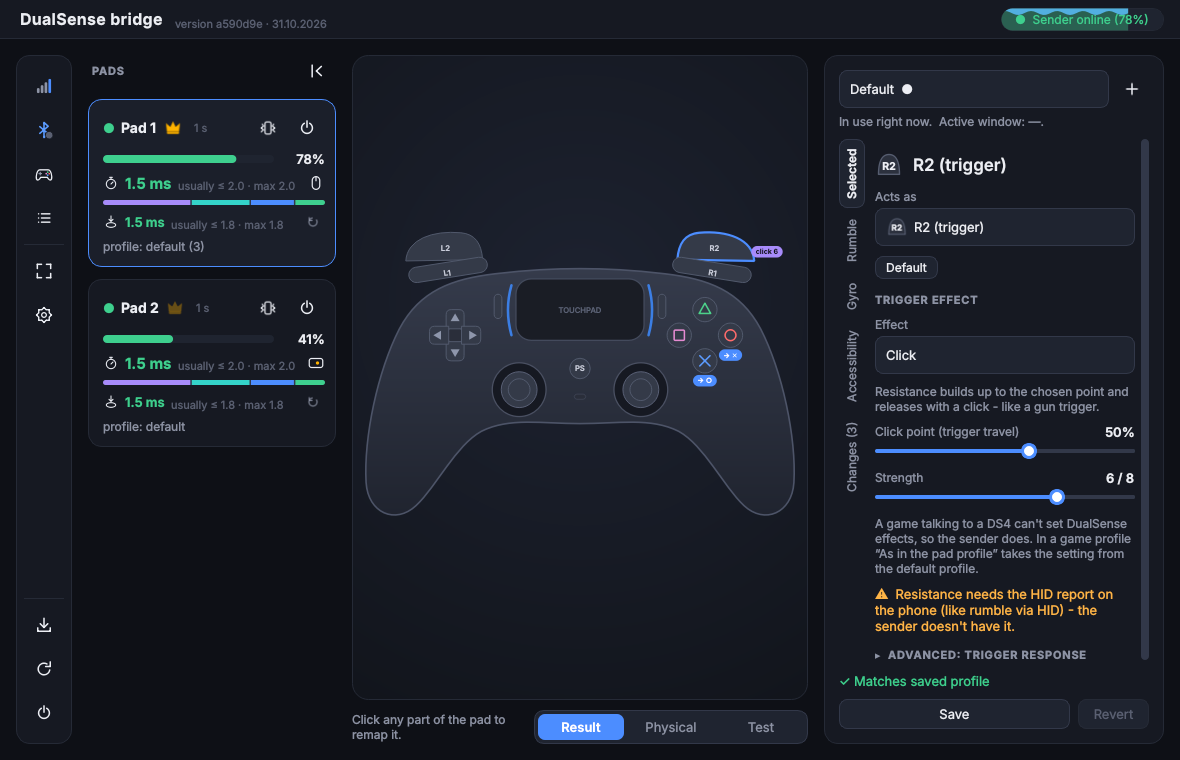
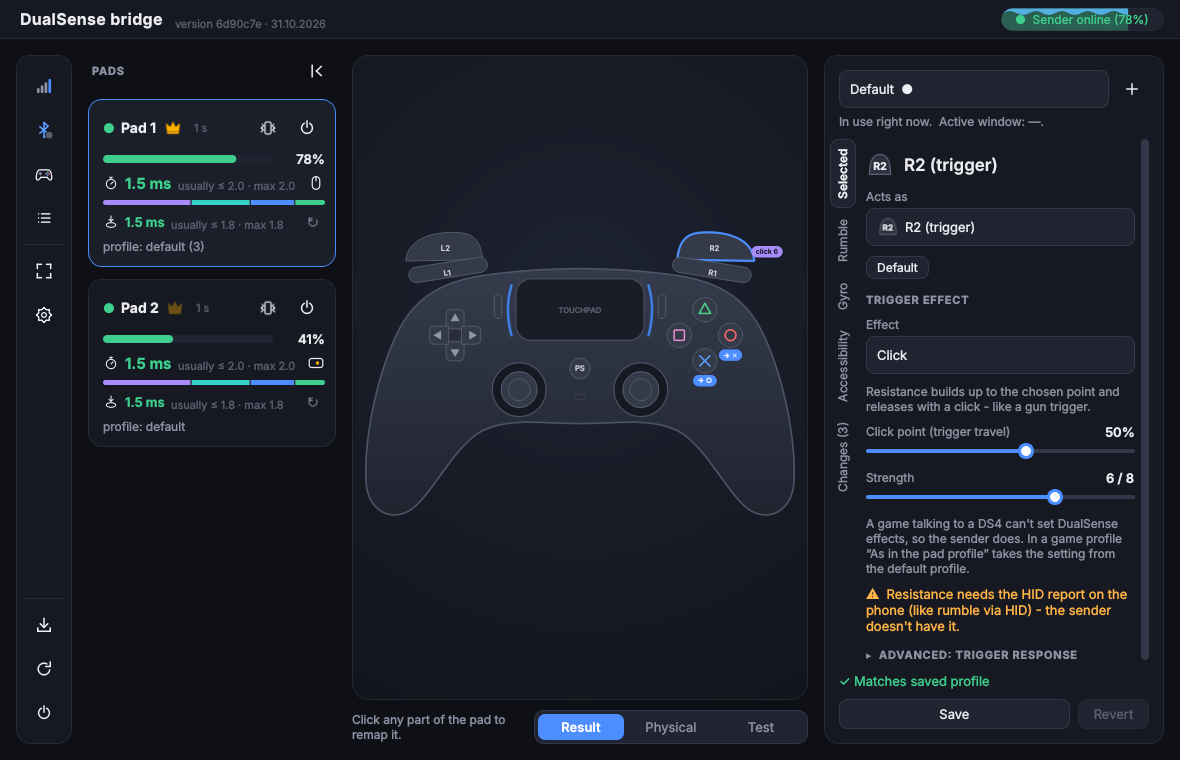
Receiver: editor tabs closer to the left edge
The tabs now sit 5 px from the left edge of the right column instead of 14 px. The profile bar, status and Save row (and the Test
panel) keep their old position through an indent, so only the tabs move.

diff --git a/receiver/rx_qt.py b/receiver/rx_qt.py
@@ -70,6 +70,22 @@ UPDATE_RESTART_MS = 2500   # after a successful update: the message is visible t
 UPDATE_STUCK_S = 150.0     # no progress for this long (git hung despite its limits) -> the button returns, the result still works
 UPDATE_PIP_GRACE_S = 30.0  # added to pip's own time limit before the libraries stage counts as stuck
 NOTE_S = 6.0           # for this many seconds a message (e.g. "Saved") covers the profile status
+TAB_EDGE = 5            # [px] the editor tabs sit this close to the left edge of the right column; the rest is indented by the difference
+TAB_INDENT = 14 - TAB_EDGE
+
+
+def _indent(host: QWidget | QVBoxLayout) -> QVBoxLayout:
+    """A vertical box with the left indent that keeps the column's content where the 14 px margin put it (the tabs go further left).
+
+    `host` is a widget (the box becomes its layout) or a layout (the box is added to it).
+    """
+    box = QVBoxLayout(host) if isinstance(host, QWidget) else QVBoxLayout()
+    box.setContentsMargins(px(TAB_INDENT), 0, 0, 0)
+    if not isinstance(host, QWidget):
+        host.addLayout(box)
+    return box
+
+
 VIEWS = (("out", "Wynik"), ("in", "Fizycznie"), ("test", "Test"))
 EXIT_HOLD_S = 1.0      # the Test view in TV mode: how long ○ of the pad under test must be held to leave the test
 DEFAULT_SIZE = QSize(1160, 720)
@@ -755,7 +771,7 @@ class MainWindow(ScreenPlacement):
         panel.setFixedWidth(px(340))
         self.right_col = panel
         outer = QVBoxLayout(panel)
-        outer.setContentsMargins(px(14), px(14), px(14), px(14))
+        outer.setContentsMargins(px(TAB_EDGE), px(14), px(14), px(14))      # the tabs nearly touch the left edge, the rest is indented
         self.right_stack = QStackedWidget()      # profile editing or the test panel (the Test view)
         outer.addWidget(self.right_stack)
         edit = QWidget()
@@ -765,16 +781,18 @@ class MainWindow(ScreenPlacement):
         self.right_stack.addWidget(edit)
         self.test_panel = TestPanel(str(self.settings.value("test_block", "true")).lower() == "true")
         self.test_panel.block_changed.connect(self.on_block_toggled)
-        self.right_stack.addWidget(self.test_panel)
+        test_box = QWidget()
+        _indent(test_box).addWidget(self.test_panel)
+        self.right_stack.addWidget(test_box)
         self.profile_bar = ProfileBar()
         self.profile_bar.selected.connect(self.on_profile)
         self.profile_bar.create.connect(self.on_create)
         self.profile_bar.delete.connect(self.on_delete)
-        lay.addWidget(self.profile_bar)
+        _indent(lay).addWidget(self.profile_bar)
         self._build_tabs()
         lay.addWidget(self.tabs, 1)
         self.status = label("", wrap=True)
-        lay.addWidget(self.status)
+        _indent(lay).addWidget(self.status)
         row = QHBoxLayout()
         row.setSpacing(px(8))
         self.save_btn = button(_("Zapisz"), primary=True)
@@ -785,7 +803,7 @@ class MainWindow(ScreenPlacement):
         self.revert_btn.clicked.connect(self.revert)
         row.addWidget(self.save_btn, 1)
         row.addWidget(self.revert_btn)
-        lay.addLayout(row)
+        _indent(lay).addLayout(row)
         return panel
 
     def _make_tray(self) -> QSystemTrayIcon | None:
